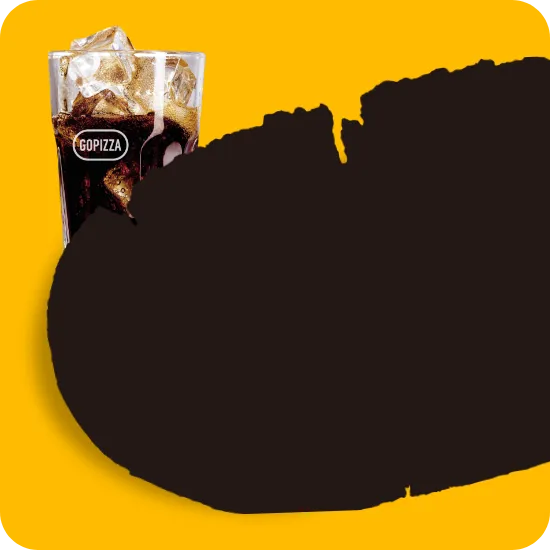
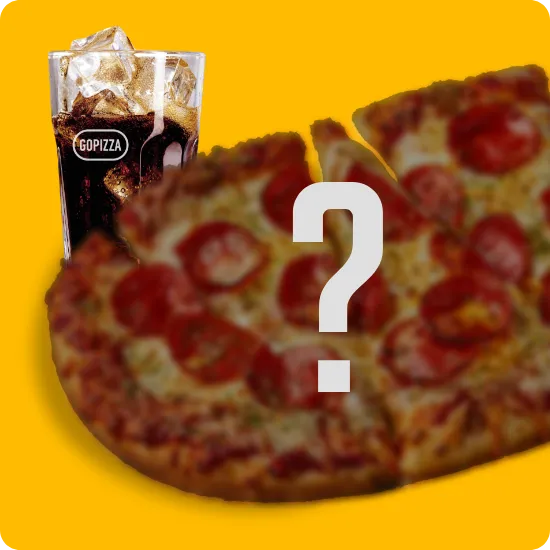
파워타임, video 이미지들 교체, 창업경쟁력 seo 이미지변경

diff --git a/components/pageComp/start/technology/GopizzaTech.tsx b/components/pageComp/start/technology/GopizzaTech.tsx
@@ -76,7 +76,7 @@ function GopizzaTech() {
         <div className="box_img" onClick={handleToggle}>
           {winReady && (
             <ReactPlayer
-              light={<img src="https://dev-gopizza-homepage.s3.ap-northeast-2.amazonaws.com/ui/images/start/tech/videox2.webp" alt="Thumbnail" />}
+              light={<img src="https://dev-gopizza-homepage.s3.ap-northeast-2.amazonaws.com/ui/images/start/tech/videox2.webp?v=2" alt="Thumbnail" />}
               url="https://www.youtube.com/watch?v=A-awWOnYf6I?t=50"
               width="100%"
               height="100%"
@@ -91,12 +91,6 @@ function GopizzaTech() {
             />
           )}
         </div>
-
-        {!play && (
-          <button>
-            <span className="hiddenZoneV">PLAY</span>
-          </button>
-        )}
       </VideoWrap>
       <BtnInquiry />
     </GopizzaTechWrap>

diff --git a/pages/menu/[[...index]].tsx b/pages/menu/[[...index]].tsx
@@ -167,7 +167,7 @@ function Menu({ seo }: { seo: object }) {
                     src={
                       categoryNav === -1
                         ? `https://dev-gopizza-homepage.s3.ap-northeast-2.amazonaws.com/ui/images/menu/pizza/img_item${i + 1}x2.webp`
-                        : `https://dev-gopizza-homepage.s3.ap-northeast-2.amazonaws.com/ui/images/menu${router.asPath.split("/menu")[1]}/img_item${i + 1}x2.webp`
+                        : `https://dev-gopizza-homepage.s3.ap-northeast-2.amazonaws.com/ui/images/menu${router.asPath.split("/menu")[1]}/img_item${i + 1}x2.webp?v=2`
                     }
                     alt="메뉴배경이미지"
                   />

diff --git a/pages/menu/detail/[idx].tsx b/pages/menu/detail/[idx].tsx
@@ -107,7 +107,7 @@ function DetailView({ seo }: any) {
 
             <div className={`thumb ${currentMenu?.badge === "best" ? "badge best" : currentMenu?.badge === "new" ? "badge new" : ""}`}>
               <img
-                src={`https://dev-gopizza-homepage.s3.ap-northeast-2.amazonaws.com/ui/images/menu/detail/${currentMenu?.category}/${idx}x2.webp`}
+                src={`https://dev-gopizza-homepage.s3.ap-northeast-2.amazonaws.com/ui/images/menu/detail/${currentMenu?.category}/${idx}x2.webp?v=2`}
                 alt={currentMenu?.name}
               />
             </div>

diff --git a/components/pageComp/start/competitive/Strong3.tsx b/components/pageComp/start/competitive/Strong3.tsx
@@ -61,7 +61,7 @@ function Strong3() {
           <div className="box_img" onClick={handleToggle}>
             {winReady && (
               <ReactPlayer
-                light={<img src="https://dev-gopizza-homepage.s3.ap-northeast-2.amazonaws.com/ui/images/start/videox2.webp" alt="Thumbnail" />}
+                light={<img src="https://dev-gopizza-homepage.s3.ap-northeast-2.amazonaws.com/ui/images/start/competitive/videox2.webp" alt="Thumbnail" />}
                 url="https://www.youtube.com/watch?v=-CroK4_iox4"
                 width="100%"
                 height="100%"

diff --git a/components/Seo.tsx b/components/Seo.tsx
@@ -399,7 +399,7 @@ export const Seo = [
       url: "https://gopizza.kr/start",
       images: [
         {
-          url: "https://dev-gopizza-homepage.s3.ap-northeast-2.amazonaws.com/ui/images/start/competitive/img_marketing9.webp",
+          url: "https://dev-gopizza-homepage.s3.ap-northeast-2.amazonaws.com/ui/images/start/videox2.webp",
           alt: "",
         },
       ],
